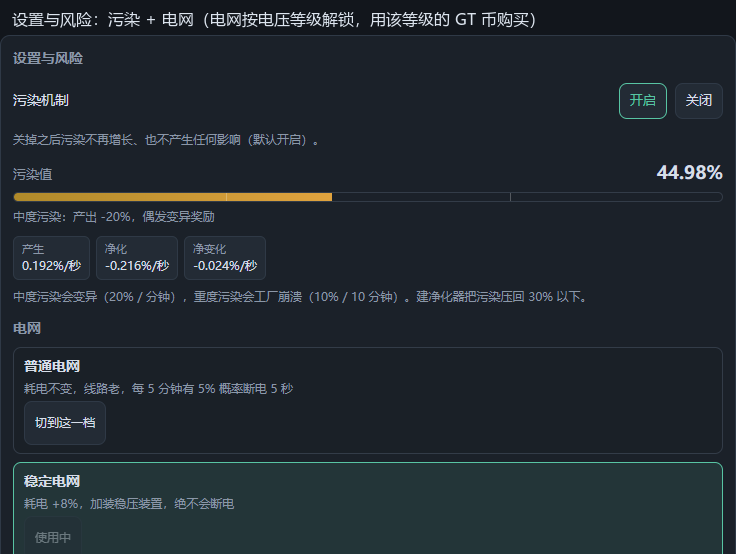
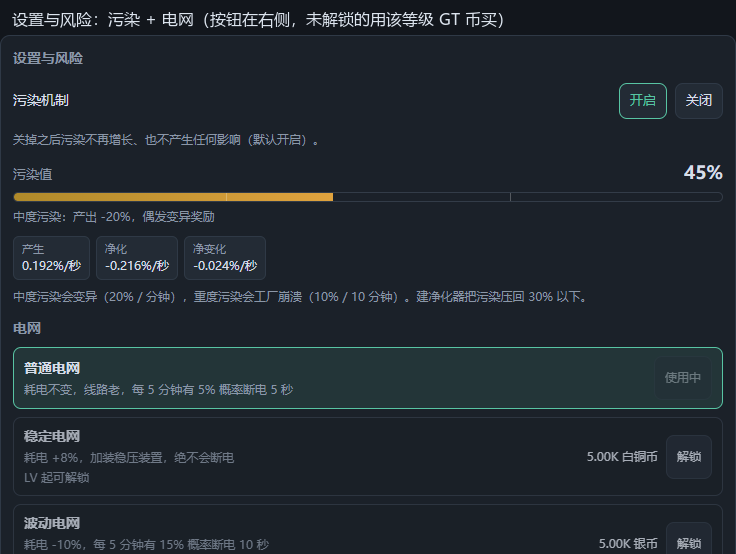
电网方框改布局：按钮放右侧，切换按钮直接写「切换」
· 每个电网一行：左边是名称/说明/解锁等级，右边是价格与按钮

· 已解锁的显示「切换」，正在用的显示「使用中」

· 实测：710px 宽的框里说明文字止于 280px，按钮从 574px 起

diff --git a/src/components/RiskPanel.vue b/src/components/RiskPanel.vue
@@ -68,8 +68,11 @@ const risk = computed(() => store.snap.risk);
         class="grid-mode"
         :class="{ active: risk.grid === mode.id, locked: !mode.unlocked }"
       >
-        <b>{{ mode.name }}</b>
-        <span class="muted small">{{ mode.summary }}</span>
+        <div class="grid-info">
+          <b>{{ mode.name }}</b>
+          <span class="muted small">{{ mode.summary }}</span>
+          <span v-if="!mode.unlocked" class="muted small">{{ mode.requirement }}</span>
+        </div>
         <span class="grid-actions">
           <template v-if="mode.unlocked">
             <button
@@ -77,11 +80,10 @@ const risk = computed(() => store.snap.risk);
               :disabled="risk.grid === mode.id"
               @click="store.setGrid(mode.id)"
             >
-              {{ risk.grid === mode.id ? '使用中' : '切到这一档' }}
+              {{ risk.grid === mode.id ? '使用中' : '切换' }}
             </button>
           </template>
           <template v-else>
-            <span class="muted small">{{ mode.requirement }}</span>
             <span class="price">{{ mode.cost }} {{ mode.unit }}</span>
             <button type="button" :disabled="!mode.unlockable" @click="store.unlockGrid(mode.id)">
               解锁

diff --git a/src/style.css b/src/style.css
@@ -626,14 +626,21 @@ h1 .small {
 
 .grid-mode {
   display: flex;
-  flex-direction: column;
-  align-items: flex-start;
-  gap: 3px;
-  text-align: left;
+  flex-direction: row;
+  align-items: center;
+  justify-content: space-between;
+  gap: 12px;
   padding: 8px 10px;
   border: 1px solid #333c48;
   border-radius: 8px;
   background: #1a2027;
+}
+
+.grid-info {
+  display: flex;
+  flex-direction: column;
+  gap: 2px;
+  min-width: 0;
 }
 
 .grid-mode.active {
@@ -649,7 +656,7 @@ h1 .small {
   display: flex;
   align-items: center;
   gap: 8px;
-  flex-wrap: wrap;
+  flex-shrink: 0;
 }
 
 .grid-actions button {
